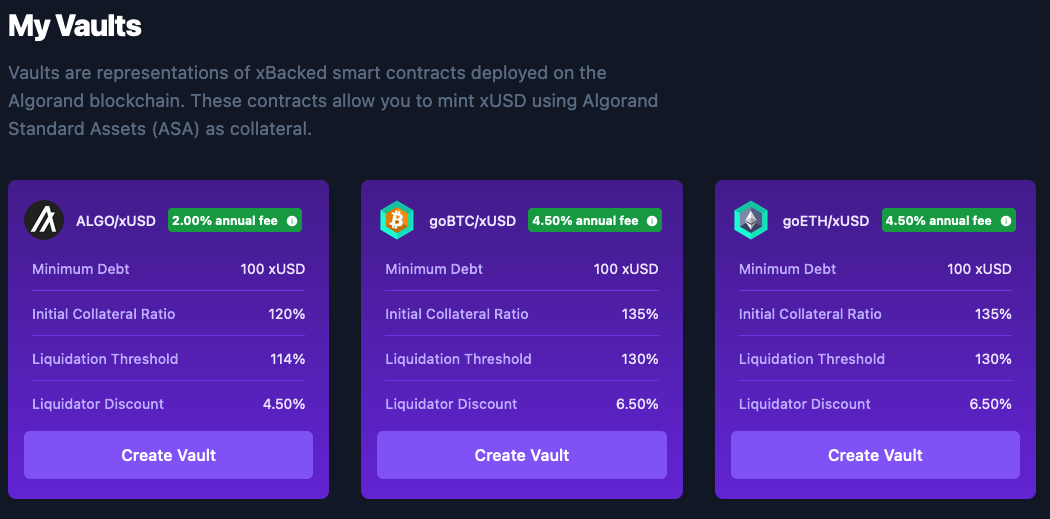
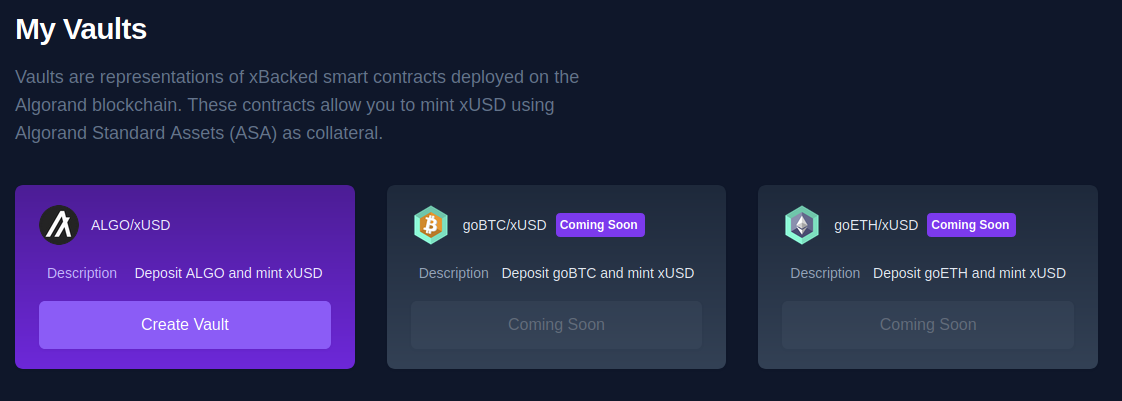
GITBOOK-78: No subject

diff --git a/faq.md b/faq.md
@@ -4,24 +4,13 @@ description: Quick answers to FAQs on the xBacked protocol
 
 # FAQ
 
-## What are the fees?
+## What is the interest rate?
 
-Supply fees vary per vault. Algo/xUSD might have an annual fee of 3.5% while BTC/xUSD might have 5%.
-
-These supply fees **are fixed, and will not change.** To change supply fees, vaults must be deprecated & redeployed with a new fee rate. Read more about deprecation.
+0% interest on minted debt, instead a fee is charged.
 
 ## What collateral can I use?
 
-xBacked is multi-collateral. Currently, we are planning to have Algo, goBTC, goETH and gAlgo, which all have strong liquidity. In the further future the team and community will assess other options.
-
-## How are new collateral types integrated?
-
-The following factors are considered when selecting new collateral types for xBacked
-
-* On Chain liquidity; will liquidations cause a cascading crash if there's too much debt for this new collateral type? Will liquidators be able to sell liquidated collateral at a favorable price? [2022, Solend highlighted this risk](https://decrypt.co/103489/solend-whale-108m-loan-nearly-crashed-solana).
-* Bridge risk; if the asset is bridged, what is the risk of accepting it? How much of this asset should be backing xUSD? [This risk is highlighted in the 2022 hack of Wormhole](https://twitter.com/dmihal/status/1488982240830930960?s=20\&t=Chjj\_7FEshVFaum6xXO7rw).
-* Community demand; will our users actually find this introduction valuable?
-* Price feeds; can we get or create reliable price feeds for this asset?
+Currently, only ALGO. In the near future, goBTC & goETH have strong liquidity. In the further future the team and community will assess other options.
 
 ## Will I still receive ALGO Rewards?
 
@@ -29,25 +18,27 @@ No, you will not receive Algo rewards. These will accrue in the vault, and when 
 
 ## Can I participate in Algorand Governance via xBacked?
 
-xBacked does not natively allow users to stake Algos for governance. Instead, we plan to integrate with Liquid Staking assets like gAlgo from Folks Finance. We are focused on being the **best stablecoin, not liquid staking.** Leveraging composability, we can still allow users to participate in governance & xBacked.
+Currently, this is not possible to do in a decentralized way. We look forward collaborating with Algorand on future iterations of Governance so that DeFi protocols can ensure users can participate in governance, in a decentralized & permisionless way while still using the protocol.
+
+Alternatively, perhaps there will be a "liquid staking" product for Algorand, and that can be a collateral type on xBacked.
 
 ## What are the fees for xBacked?
 
 [Documentation on our fee structure is here.](product/fees.md)
 
-| Action       | Fee                   |
-| ------------ | --------------------- |
-| Minting xUSD | 0%, annual supply fee |
-| Liquidations | 1%                    |
-| Redemptions  | 0.5-2%                |
+| Action       | Fee  |
+| ------------ | ---- |
+| Minting xUSD | 0.5% |
+| Liquidations | 1%   |
+| Redemptions  | 2%   |
 
 ## What is the minimum collateral ratio?
 
-This varies per vault, but could be as low as 110% depending on the collateral type. [Read more about vaults here.](product/vaults.md)
+Vaults below 110% can be liquidated, and the protocol prevents users putting their vault close to this level, creating a strong incentive to be at least 120%. [Read more about vaults here.](product/vaults.md)
 
 ## What is the minimum amount of collateral required to open a vault?
 
-$100 USD, but could vary per vault and change over time.
+$100 USD.
 
 ## Is xBacked a DAO?
 

diff --git a/product/xusd-stability.md b/product/xusd-stability.md
@@ -1,44 +1,20 @@
 ---
-description: Stability mechanisms for xUSD explained
+description: Stability mechanisms explained
 ---
 
 # xUSD Stability
-
-## Over Collateralized Portfolio of Assets on the Balance Sheet
-
-![Balance sheet comparison of Banks vs Crypto Protocols. xBacked is closest to MakerDAO. There is no negative equity in our protocol.](<../.gitbook/assets/image (10).png>)
-
-xBacked is an over-collateralized protocol, designed closer to MakerDAO or Liquity. xUSD can only be minted when > $1 of underlying collateral is deposited. The collateral that backs xUSD is a portfolio of different assets; Algos, wrapped BTC & ETH, and later LP tokens from DEXEs. Each collateral type is limited to how much xUSD it can mint, which is the primary way xBacked can control the about of debt exposure to a certain collateral type.
-
-![](<../.gitbook/assets/image (8).png>)
-
-xUSD is backed by **exogenous collateral**, meaning the relationship is external to the protocol. This is the opposite of **endogenous collateral**, which describes the relationship between LUNA and UST
-
-Importantly; in the bill proposed by Lummis in 2022, it is a requirement that stablecoins have ≥ 100% of collateral backing the tokens.
-
-_Note: MakerDAO was used by TESLA in Apr 2022:_ [https://www.thismorningonchain.com/articles/defi/makerdao-is-diversifying-into-the-real-world-by-issuing-loans-to-tesla/](https://www.thismorningonchain.com/articles/defi/makerdao-is-diversifying-into-the-real-world-by-issuing-loans-to-tesla/)
 
 ## Supply fees
 
 Each vault has a supply fee. This can be adjusted via governance to effect the demand on xUSD. For example, if it is too cheap there could be an oversupply in xUSD causing the peg to break to the down side.
 
-## Liquidations
-
-Vaults on xBacked can be liquidated by anyone, as long as the vaults collateral ratio is below the defined threshold. Depending on the type of collateral, collateral ratios will be lower of higher. For example, volatile illiquid assets would have higher collateral types while more liquid assets could have a lower collateral ratio.
-
-Liquidators repay xUSD to a vault, in exchange for discounted collateral. This discount rate also differs per collateral type.
-
-The protocol will take a 1% fee from all liquidations, and the stability pool stakers will receive a share of this for staking their xUSD.
-
-![](<../.gitbook/assets/image (5).png>)
-
 ## Redemption
 
 The redemption mechanism allows **1 xUSD token to be redeemed for $1 of underlying collateral, at all times**. This means if the peg is trading below the $1 target, people are able to buy on a DEX and instantly profit on the arbitrage opportunity. [Read more about redemptions.](redemptions.md)
 
-## xUSD Stability Pool
+## xUSD Backstop
 
-Users are able to stake their xUSD for liquidators to use in liquidations. Users receive discounted collateral, while liquidators do not need to provide capital upfront to liquidate bad vaults. Liquidators receive 0.5% of the liquidation (without risking their own capital). Think of this like a permissioned flash loan. Users are also able to use the stability pool as a hedge; they can define at what prices their staked xUSD will be used to liquidate collateral.
+Anyone is able to stake xUSD that can be used in liquidations by keepers. Stakers will receive the discounted collateral from the liquidaiton, a portion of fees generated by redemptions & liquidations, and other incentives over time.
 
 ## Isolated Risk Vaults
 

diff --git a/product/product-walkthrough.md b/product/product-walkthrough.md
@@ -22,50 +22,34 @@ When you initially open xBacked, you will be presented with this screen
 
 Click on the "Create Vault" button, and you will be presented with a screen that allows you to enter how much collateral you will deposit & how much xUSD to mint.
 
-![](<../.gitbook/assets/image (3).png>)
+![](<../.gitbook/assets/image (9).png>)
 
 In the next step you will be asked to confirm the vault details before initiating vault creation.
-
-![](<../.gitbook/assets/image (9).png>)
 
 Note: on your first time using xBacked you will be prompted with three transactions; one to opt-into the xUSD token, one to opt-into the Vault application, and the third will be to deposit collateral and mint xUSD.
 
 ## Using a Vault
 
-When you have created a vault, the main screen will update.
+When you have screated a vault, the main screen will update.
 
-![](<../.gitbook/assets/image (12).png>)
+![](<../.gitbook/assets/image (7).png>)
 
 Clicking on "View Vault" will show you all the actions you can do with your vault.
 
-![](<../.gitbook/assets/image (11).png>)
+![](<../.gitbook/assets/image (1).png>)
 
 Each these actions will either improve the health of your vault, or make it worse.
 
-![](<../.gitbook/assets/CleanShot 2022-07-07 at 11.05.02.gif>)
+![](<../.gitbook/assets/image (11).png>)
 
-![](<../.gitbook/assets/CleanShot 2022-07-07 at 11.05.40.gif>)
+![](<../.gitbook/assets/image (2).png>)
 
 ## Closing a Vault
 
-To close a vault, simply return all xUSD + accrued supply fees. After this, the remaining collateral in the vault will be transferred back to you.
+To close a vault, simply return all xUSD. After this, the remaining collateral in the vault will be transferred back to you.
 
-![](<../.gitbook/assets/image (4).png>)
-
-
+![](<../.gitbook/assets/image (6).png>)
 
 ## Liquidating a Vault
 
-In reality, it is highly likely that a bot will liquidate a vault before you will. However, below is a guide to using the UI
-
-![](<../.gitbook/assets/image (1).png>)
-
-Once you fetch vaults, you will be presented with a list of vaults that can be liquidated. Clicking on "Liquidate" will take you to a page where you can repay xUSD & receive discounted collateral for improving the health of the vault
-
-![](<../.gitbook/assets/CleanShot 2022-07-07 at 12.34.48.gif>)
-
-## Redemptions
-
-When xUSD is trading below the $1 target, it becomes profitable to buy it on a DEX and redeem it for $1 of underlying collateral. Choose which collateral to redeem. There is a small fee involved in redemption, taken from the redeemed collateral
-
-![](<../.gitbook/assets/CleanShot 2022-07-07 at 12.41.52.gif>)
+Coming soon...

diff --git a/product/vaults.md b/product/vaults.md
@@ -26,25 +26,21 @@ $$
 
 ## **What are the minimum collateral ratios for Vaults?**
 
-Vaults have a **minimum collateral ratio which varies per vault.** Below this level, vaults become available for liquidation.
+Vaults have a **minimum collateral ratio of 110%.** Below this level, vaults become available for liquidation.
 
-To withdraw collateral, or to mint new debt, the collateral ratio **must be above a certain collateral ratio**.
+To withdraw collateral, or to mint new debt, the collateral ratio **must be above 120%**.
 
 {% hint style="info" %}
-Note: the frontend by default enforces a margin of saftey when updating a vault. If you would like to push the limits of a vault, it is possible via the SDK or by using DEGEN Mode
+Note: this 120% is only enforced on the frontend; if you would like to mint more, it is possible via the SDK or other frontends
 {% endhint %}
 
 ## What is the minimum collateral deposit required to open a Vault?
 
 There will be a minimum mint amount to open a vault on xBacked, which is `100 xUSD`. This is subject to change via governance proposals. The reasoning is that a bad actor could spam vaults and fill xBacked with junk vaults quite cheaply. This would slow down liquidators monitoring legitimate vaults, and decrease overall health of the protocol.
 
-## Is there a maximum vault collateral size?
-
-Yes, vaults will have a maximum dollar value for the collateral allowed. This is to help mitigate the risk of a vault being too large to liquidate with on chain liquidity.
-
 ## What collateral types does xBacked support?
 
-xBacked is multi-collateral and supports a diverse range of collateral types. To beign with, we will support Algos, BTC, ETH and gAlgo.
+Currently, xBacked only supports ALGO as collateral. Over time this might change based on governance proposals created by the community. We plan to support goBTC and goETH quite quickly after our mainnet launch.
 
 ## Do Vaults have an interest rate?
 
@@ -56,7 +52,7 @@ No, there is no repayment schedule for xUSD. When a user mints xUSD there is **n
 
 ## What happens if my Vault is liquidated?
 
-If your vault collateral ratio drops below the minium (e.g`110%`) then it is liquidated. In this case, your vault will be liquidated back to `120%` and you will be left with the remaining vault collateral & xUSD.
+If your vault collateral ratio drops below `110%` then it is liquidated. In this case, your vault will be liquidated back to `120%` and you will be left with the remaining vault collateral & xUSD.
 
 In this process, liquidators repay your vaults debt.
 

diff --git a/README.md b/README.md
@@ -6,15 +6,15 @@ description: >-
 
 # About
 
-xBacked is a DAO building a decentralized, permissionless stablecoin on Algorand, over collateralized by ASAs like Algo, BTC, and ETH.
+xBacked is a DAO building a decentralized, permissionless stablecoin on Algorand, over collateralized by ASAs like Algo, goBTC, and goETH.
 
 ## How does it work? <a href="#docs-internal-guid-6f74a61e-7fff-7f17-cdec-6e0307f1c772" id="docs-internal-guid-6f74a61e-7fff-7f17-cdec-6e0307f1c772"></a>
 
-xBacked ensures all xUSD in circulation is over collateralized via vaults. These vaults are collateralized debt positions (CDPs), and work similarly to MakerDAO, Liquity, and other collateralized stablecoins.
+xBacked ensures all xUSD in circulation is over collateralized via vaults. These vaults are collateralized debt positions (CDPs), and work similarly to MakerDAO, Liquity, and over collateralized stablecoins.
 
-A core focus of the protocol is capital efficiency. We maintain low liquidation thresholds, with vaults having collateral ratios as low as 110% depending on the asset. Algorand is a very fast Layer 1 Blockchain, and we can guarantee that liquidations/debt being returned to vaults will never be held up by gas fees or network congesiton.
+A core focus of the protocol is capital efficiency. Extremely low liquidation threshold of a 110% collateral ratio. Users can, technically, mint all the way up to this point if they really wanted to. Algorand is fast; we leverage that because we can guarantee that liquidations/debt being returned to vaults will never be held up
 
-xBacked also leverages isolated risk markets in the architecture. Different vault types (e.g Algo/xUSD and BTC/xUSD) have different health factors, they are not combined. It means if one vault is affected by massive volatility, it will not affect other positions taken on xBacked and only affect a subset of xUSD in circulation.
+xBacked also leverages isolated risk markets in the architecture. Different vault types (e.g Algo/xUSD and gotBTC/xUSD) have different health factors, they are not combined. It means if one vault is affected by massive volatility, it will not affect other positions taken on xBacked and only affect a subset of xUSD in circulation.
 
 Check out this blog post for more information about the protocol: [https://medium.com/algopulse/xbacked-a-decentralized-stablecoin-for-algorand-69f3f296efd2](https://medium.com/algopulse/xbacked-a-decentralized-stablecoin-for-algorand-69f3f296efd2)
 

diff --git a/product/fees.md b/product/fees.md
@@ -14,7 +14,7 @@ Varies per collateral type. Initially, the Algo/xUSD vault will be set to 2%. Th
 
 ## Liquidations
 
-A liquidator will receive a discount when liquidating a vault. For example, it might be 3.5%.
+A liquidator will receive a 3.5% discount when liquidating a vault.
 
 The protocol will charge a 1% fee on this collateral, so the liquidator effectively gets a 2.5% discount.
 
@@ -22,10 +22,10 @@ If the liquidator uses staked xUSD, the staker will receive a 2% discount, the l
 
 ## Redemption
 
-When redeeming, a fee is applied to the collateral. For example, if you redeem 100 xUSD for $100 ALGO, you will receive $99 worth of ALGO.
+When redeeming, a 2% fee is applied to the collateral. For example, if you redeem 100 xUSD for $100 ALGO, you will receive $98 worth of ALGO.
 
 {% hint style="info" %}
-Example: with a 1% fee on redemptions, it only becomes worthwhile when xUSD is trading below the $0.98 peg
+With a 2% fee on redemptions, it only becomes worthwhile when xUSD is trading below the $1 peg.
 {% endhint %}
 
 ## Fee Distribution
@@ -36,14 +36,14 @@ These are the beginning metrics - and can be modified later via governance.
 
 These fees accrue in the contract over time. Anyone can trigger fee distribution, and when they do they receive 0.5% of the accrued fees. These Algo fees go to the following
 
-* 0% to xUSD stakers in the liquidation contract (initially this will be 0%, the parameter can be modified)&#x20;
-* 100% to the DAO treasury address
+* 50% to xUSD stakers in the liquidation contract
+* 50% to the DAO address
 
 **xUSD Fees (generated via interest)**
 
 Over time, interest accrues in the contract in the form of xUSD. Anyone can trigger the settlment of these fees. Upon settlement, the caller receives no reward. However, the fees are distributed in the following way
 
-* 100% to the DAO treasury address
-* 0% to the governance token stakers (the parameter can be modified)
+* 50% to the DAO address
+* 50% to the governance token stakers
 
 The incentive here is for those staking governance tokens to trigger fee distribution for xUSD fees.

diff --git a/product/liquidations/staking-xusd.md b/product/liquidations/staking-xusd.md
@@ -1,19 +1,17 @@
 ---
-description: Details about staking xUSD in the Stability pool
+description: Details about staking xUSD
 ---
 
-# xUSD Stability Pool
+# Staking xUSD
 
 ## Why would I stake xUSD?
 
-The staked xUSD pool receives a share of all redemption & liquidation fees from the protocol**.** Users of the xBacked protocol that stake xUSD receive a a pro-rata distribution of these fees based on their ownership of the pool.
+The staked xUSD pool receives 5% **of all fees generated by the protocol.** Users of the xBacked protocol that stake xUSD receive a a pro-rata distribution of these fees based on their ownership of the pool.
 
-You will also receive discounted collateral from your staked xUSD, which is used in liquidations.
+You will also receive discounted collateral from your staked xUSD.
 
 ## What happens when a Vault is liquidated using my xUSD?
 
 The way staking xUSD for liquidations works, means that bots are able to run liquidations on your behalf. You might stake 500 xUSD, and a bot could use 100 xUSD in a liquidation.
 
-You would receive a discount to the market (e.g buy $100 of colalteral for 98 xUSD), the bot would receive 0.5% of the collateral, and the protocol will take a 1% fee.
-
-You will be able to set prices for your xUSD to be used in liquidations, effectively acting like a limit order for an asset. For example, you might only allow liquidators to use your xUSD when the price of Algo is below $0.3, or some other support level.
+You would receive a 2% discount to the market (e.g buy $100 of colalteral for 98 xUSD), the bot would receive 0.5% of the collateral, and the protocol will take a 1% fee.

diff --git a/product/connecting-wallets.md b/product/connecting-wallets.md
@@ -12,7 +12,7 @@ MyAlgo Connect is the most popular browser based wallet for Algorand dApps. It r
 
 Chrome or Chrome based browsers like Brave, you will receive a small prompt in the top right hand corner of your browser. Click on this, and allow pop ups for xBacked.
 
-![](<../.gitbook/assets/image (1) (1).png>)
+![](<../.gitbook/assets/image (3).png>)
 
 Refresh your page, and connect to MyAlgo.
 
@@ -20,7 +20,7 @@ Refresh your page, and connect to MyAlgo.
 
 On Firefox, you will see a prompt under the toolbar asking you to enable pop ups. If you click "Preferences" > "Allow pop-ups for tesnet.xbacked.io"
 
-![](<../.gitbook/assets/image (9) (1).png>)
+![](<../.gitbook/assets/image (8).png>)
 
 Refresh your page, and connect to MyAlgo.
 
@@ -30,7 +30,7 @@ Refresh your page, and connect to MyAlgo.
 
 On Desktop, when you use the Algorand Official Wallet, you will be able to scan a QR code (similar to the below picture). If you scan this with your mobile, your wallet will be connected to xBacked.
 
-![](<../.gitbook/assets/image (8) (1).png>)
+![](<../.gitbook/assets/image (10).png>)
 
 {% hint style="info" %}
 Make sure if you are on testnet you enable the Pera Wallet to use testnet! You can do this by going to Settings Cog > Developer Settings > Node Settings > Choose TestNet instead of MainNet

diff --git a/documentation/bug-bounty-program.md b/documentation/bug-bounty-program.md
@@ -21,9 +21,9 @@ If you discover any security bugs within our web app, or within server configura
 
 If you find a bug or exploit in our smart contracts, and disclose is responsibly, we will pay out the following levels. Over time as the TVL of the protocol grows, so will these pay out scales. We use the [Immunefi Vulnerability Classification System](https://immunefi.com/severity-system/) to classify smart contract bugs.
 
-| Level                           | Payout             |
-| ------------------------------- | ------------------ |
-| Critical (funds can be drained) | Up to $100,000 USD |
-| High                            | Up to $20000       |
-| Medium                          | Up to $5000        |
-| Low                             | Up to $1000        |
+| Level                           | Payout                                     |
+| ------------------------------- | ------------------------------------------ |
+| Critical (funds can be drained) | Up to $50,000 USD, more depending on scale |
+| High                            | Up to $20,000                              |
+| Medium                          | Up to $5,000                               |
+| Low                             | Up to $1,000                               |

diff --git a/product/redemptions.md b/product/redemptions.md
@@ -14,8 +14,8 @@ When a user redeems xUSD on xBacked, the redemption is made against **the riskie
 
 The owner of a vault will not incur a net loss, but exposure to their collateral will be reduced.
 
-There is a small fee taken from **the redeemed** collateral. For example, if you redeem 100 xUSD for $100 worth of Algo, the fee will be taken by the protocol as a fee.
+There is a 2% fee taken from **the redeemed** collateral. For example, if you redeem 100 xUSD for $100 worth of Algo, 2% will be taken by the protocol as a fee.
 
 ## Proposing Vaults for Redemption
 
-Vaults are not sorted on chain. Instead, the protocol relies on a network of Keepers monitoring for riskier vaults than those in the current list. When one of these keepers finds a riskier vault, and successfully propose it, they receive 0.075% of that vaults collateral as a reward with the protocol taking 0.025% as a fee to distribute.
+Vaults are not sorted on chain. Instead, the protocol relies on a network of Keepers monitoring for riskier vaults than those in the current list. When one of these keepers finds a riskier vault, and successfully propose it, they receive 0.075% of that vaults collateral as a reward.

diff --git a/community-links.md b/community-links.md
@@ -8,4 +8,4 @@ description: Links to join in the xBacked DAO community groups
 * Telegram: [https://t.me/xbackeddao](https://t.me/xbackeddao)
 * Discord: [https://discord.io/xBacked](https://discord.io/xBacked)
 * Github: [https://github.com/xBacked-DAO/](https://github.com/xBacked-DAO/)
-* Press Kit: [https://github.com/xBacked-DAO/press-kit-assets/](https://github.com/xBacked-DAO/press-kit-assets/)
+* Press Kit: [https://drive.google.com/drive/folders/17SQTVtG8mFMNJCl\_xX\_9rt9KPcIUeF1D?usp=sharing](https://drive.google.com/drive/folders/17SQTVtG8mFMNJCl\_xX\_9rt9KPcIUeF1D?usp=sharing)

diff --git a/contracts-and-tokens/mainnet.md b/contracts-and-tokens/mainnet.md
@@ -6,8 +6,6 @@ description: Any other token ID or Application ID Claiming to be xBacked is a sc
 
 X Governance Token: [https://algoexplorer.io/asset/466872875](https://algoexplorer.io/asset/466872875)
 
-xUSD: [https://algoexplorer.io/asset/760037151](https://algoexplorer.io/asset/760037151)
+xUSD: Not launched yet
 
-Vault Contracts:
-
-Algo/xUSD vault: [https://algoexplorer.io/application/1012903350](https://algoexplorer.io/application/1012903350)
+Vault Contracts: not launched yet
